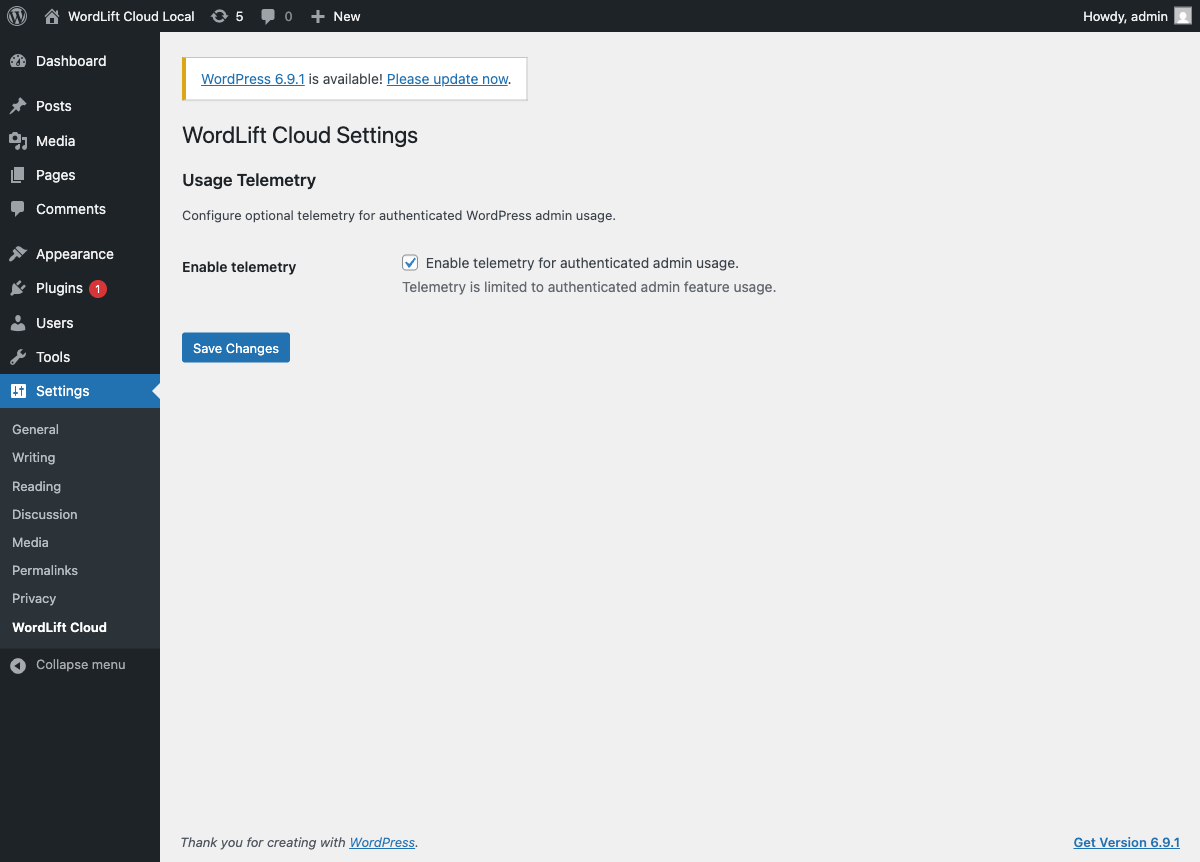
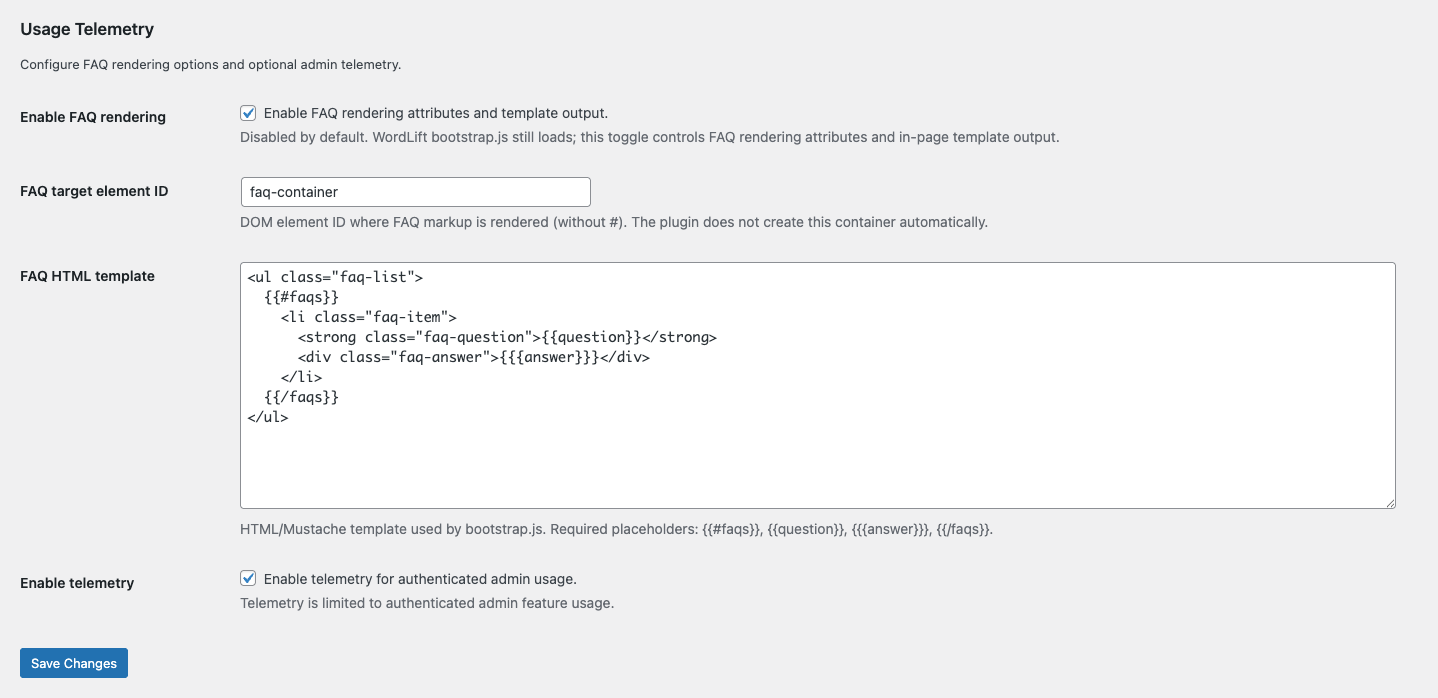
chore(release): v3.20.1

Changed region(s): [[0.0, 0.0, 1.0, 1.0], [0.8942, 0.9628, 0.9867, 0.9928]]

diff --git a/docs/cloud/wordpress-plugin.md b/docs/cloud/wordpress-plugin.md
@@ -46,7 +46,7 @@ Use the WordLift Cloud plugin to:
 - **FAQ HTML template**:
   - editable HTML/Mustache template used for FAQ rendering.
 - Post-level override:
-  - all public post types have a dedicated **WordLift FAQ Rendering** metabox with:
+  - all public post types have a dedicated **FAQ** metabox with:
     - **Inherit (default)**
     - **Enable**
     - **Disable**
@@ -56,6 +56,22 @@ Use the WordLift Cloud plugin to:
 - **Enable telemetry**:
   - optional and admin-only.
   - tracks authenticated backend feature usage; no public frontend telemetry snippet is injected.
+
+## Enable or disable FAQ per post
+
+Use the **FAQ** metabox on the edit post screen to override the global FAQ setting for a single post.
+
+- **Inherit (default)**: use the global plugin setting.
+- **Enable**: force FAQ rendering for this post.
+- **Disable**: force FAQ rendering off for this post.
+
+### Block Editor metabox
+
+![FAQ metabox in Block Editor](/img/cloud-plugin/step-7-block-editor-faq-metabox.png)
+
+### Classic Editor metabox
+
+![FAQ metabox in Classic Editor](/img/cloud-plugin/step-6-classic-editor-faq-metabox.png)
 
 ## Next steps
 

diff --git a/docs/introduction.md b/docs/introduction.md
@@ -10,7 +10,7 @@ import TabItem from '@theme/TabItem';
 import ThemedImage from '@theme/ThemedImage';
 
 :::info Version Notice
-Latest Release: 3.20.0 (March 2026) — Refined docs for WordLift Cloud and worai command usage, including `data-sidebar` coverage, WordPress plugin settings behavior, agent CLI passthrough arguments, and SDK 6.10 ingest defaults.
+Latest Release: 3.20.1 (March 2026) — Refined docs for WordLift Cloud and worai command usage, including `data-sidebar` coverage, WordPress plugin settings behavior, agent CLI passthrough arguments, and SDK 6.10 ingest defaults.
 :::
 
 # 👋 Welcome to WordLift
